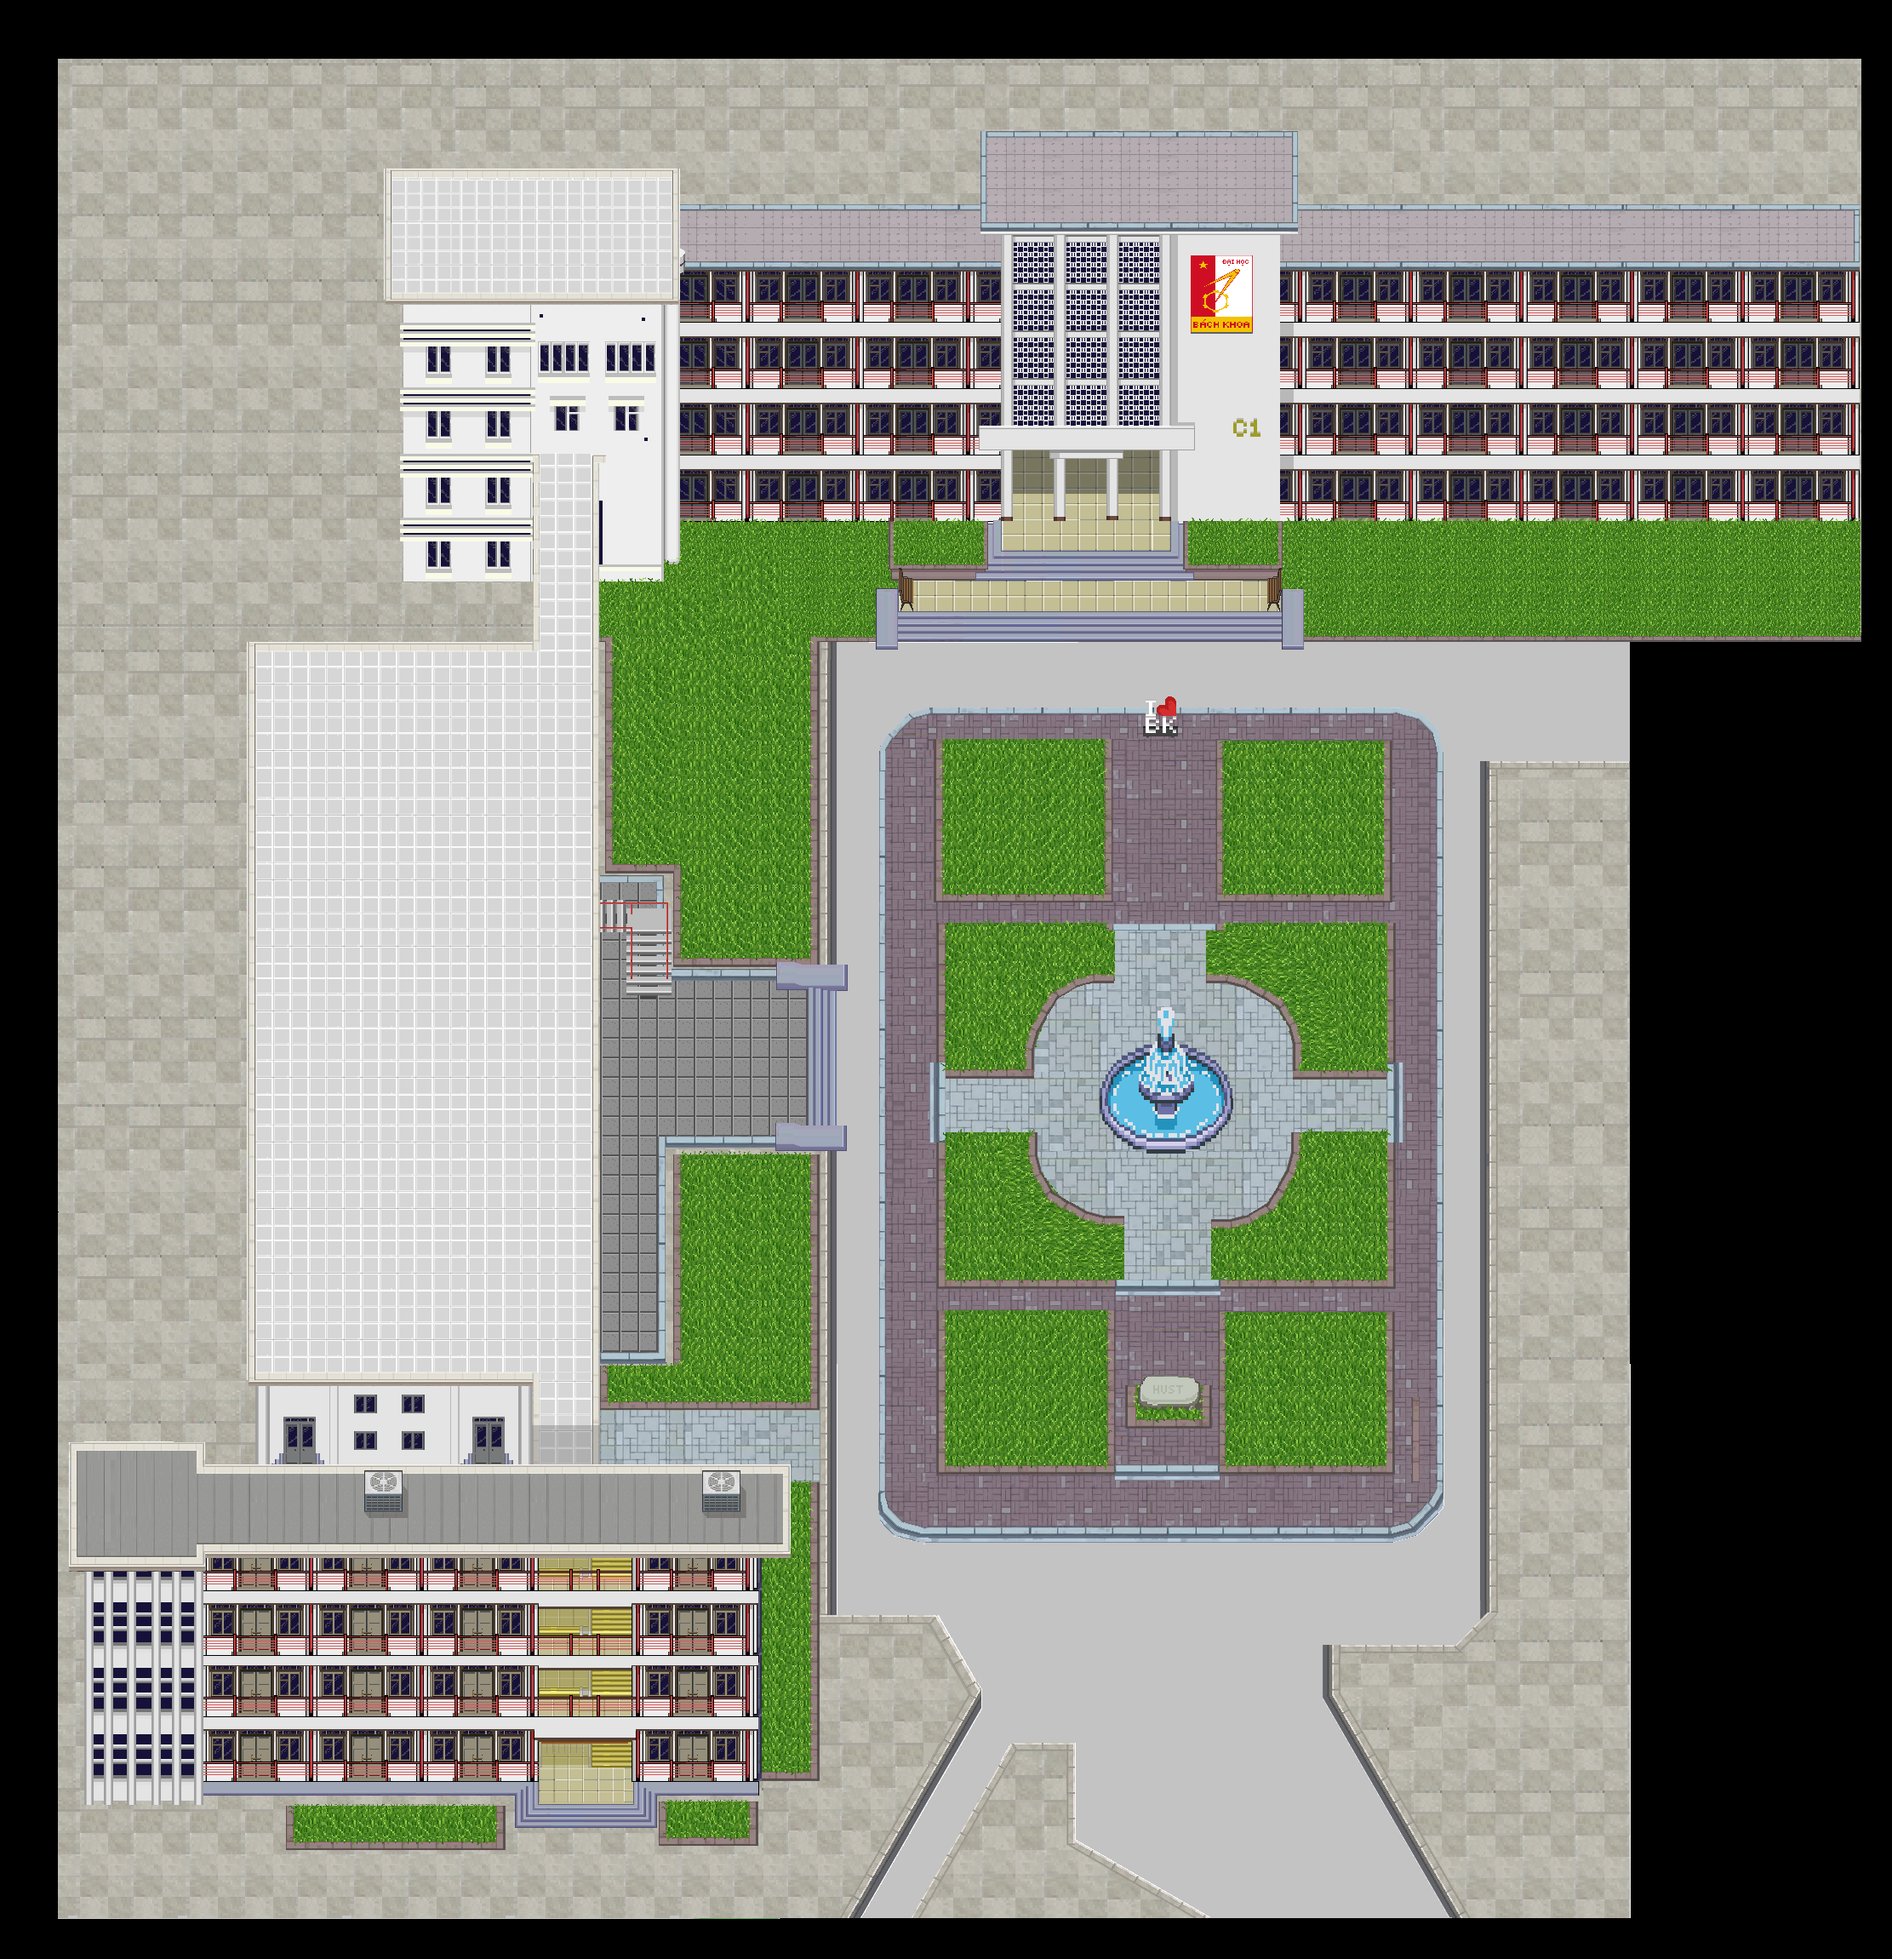
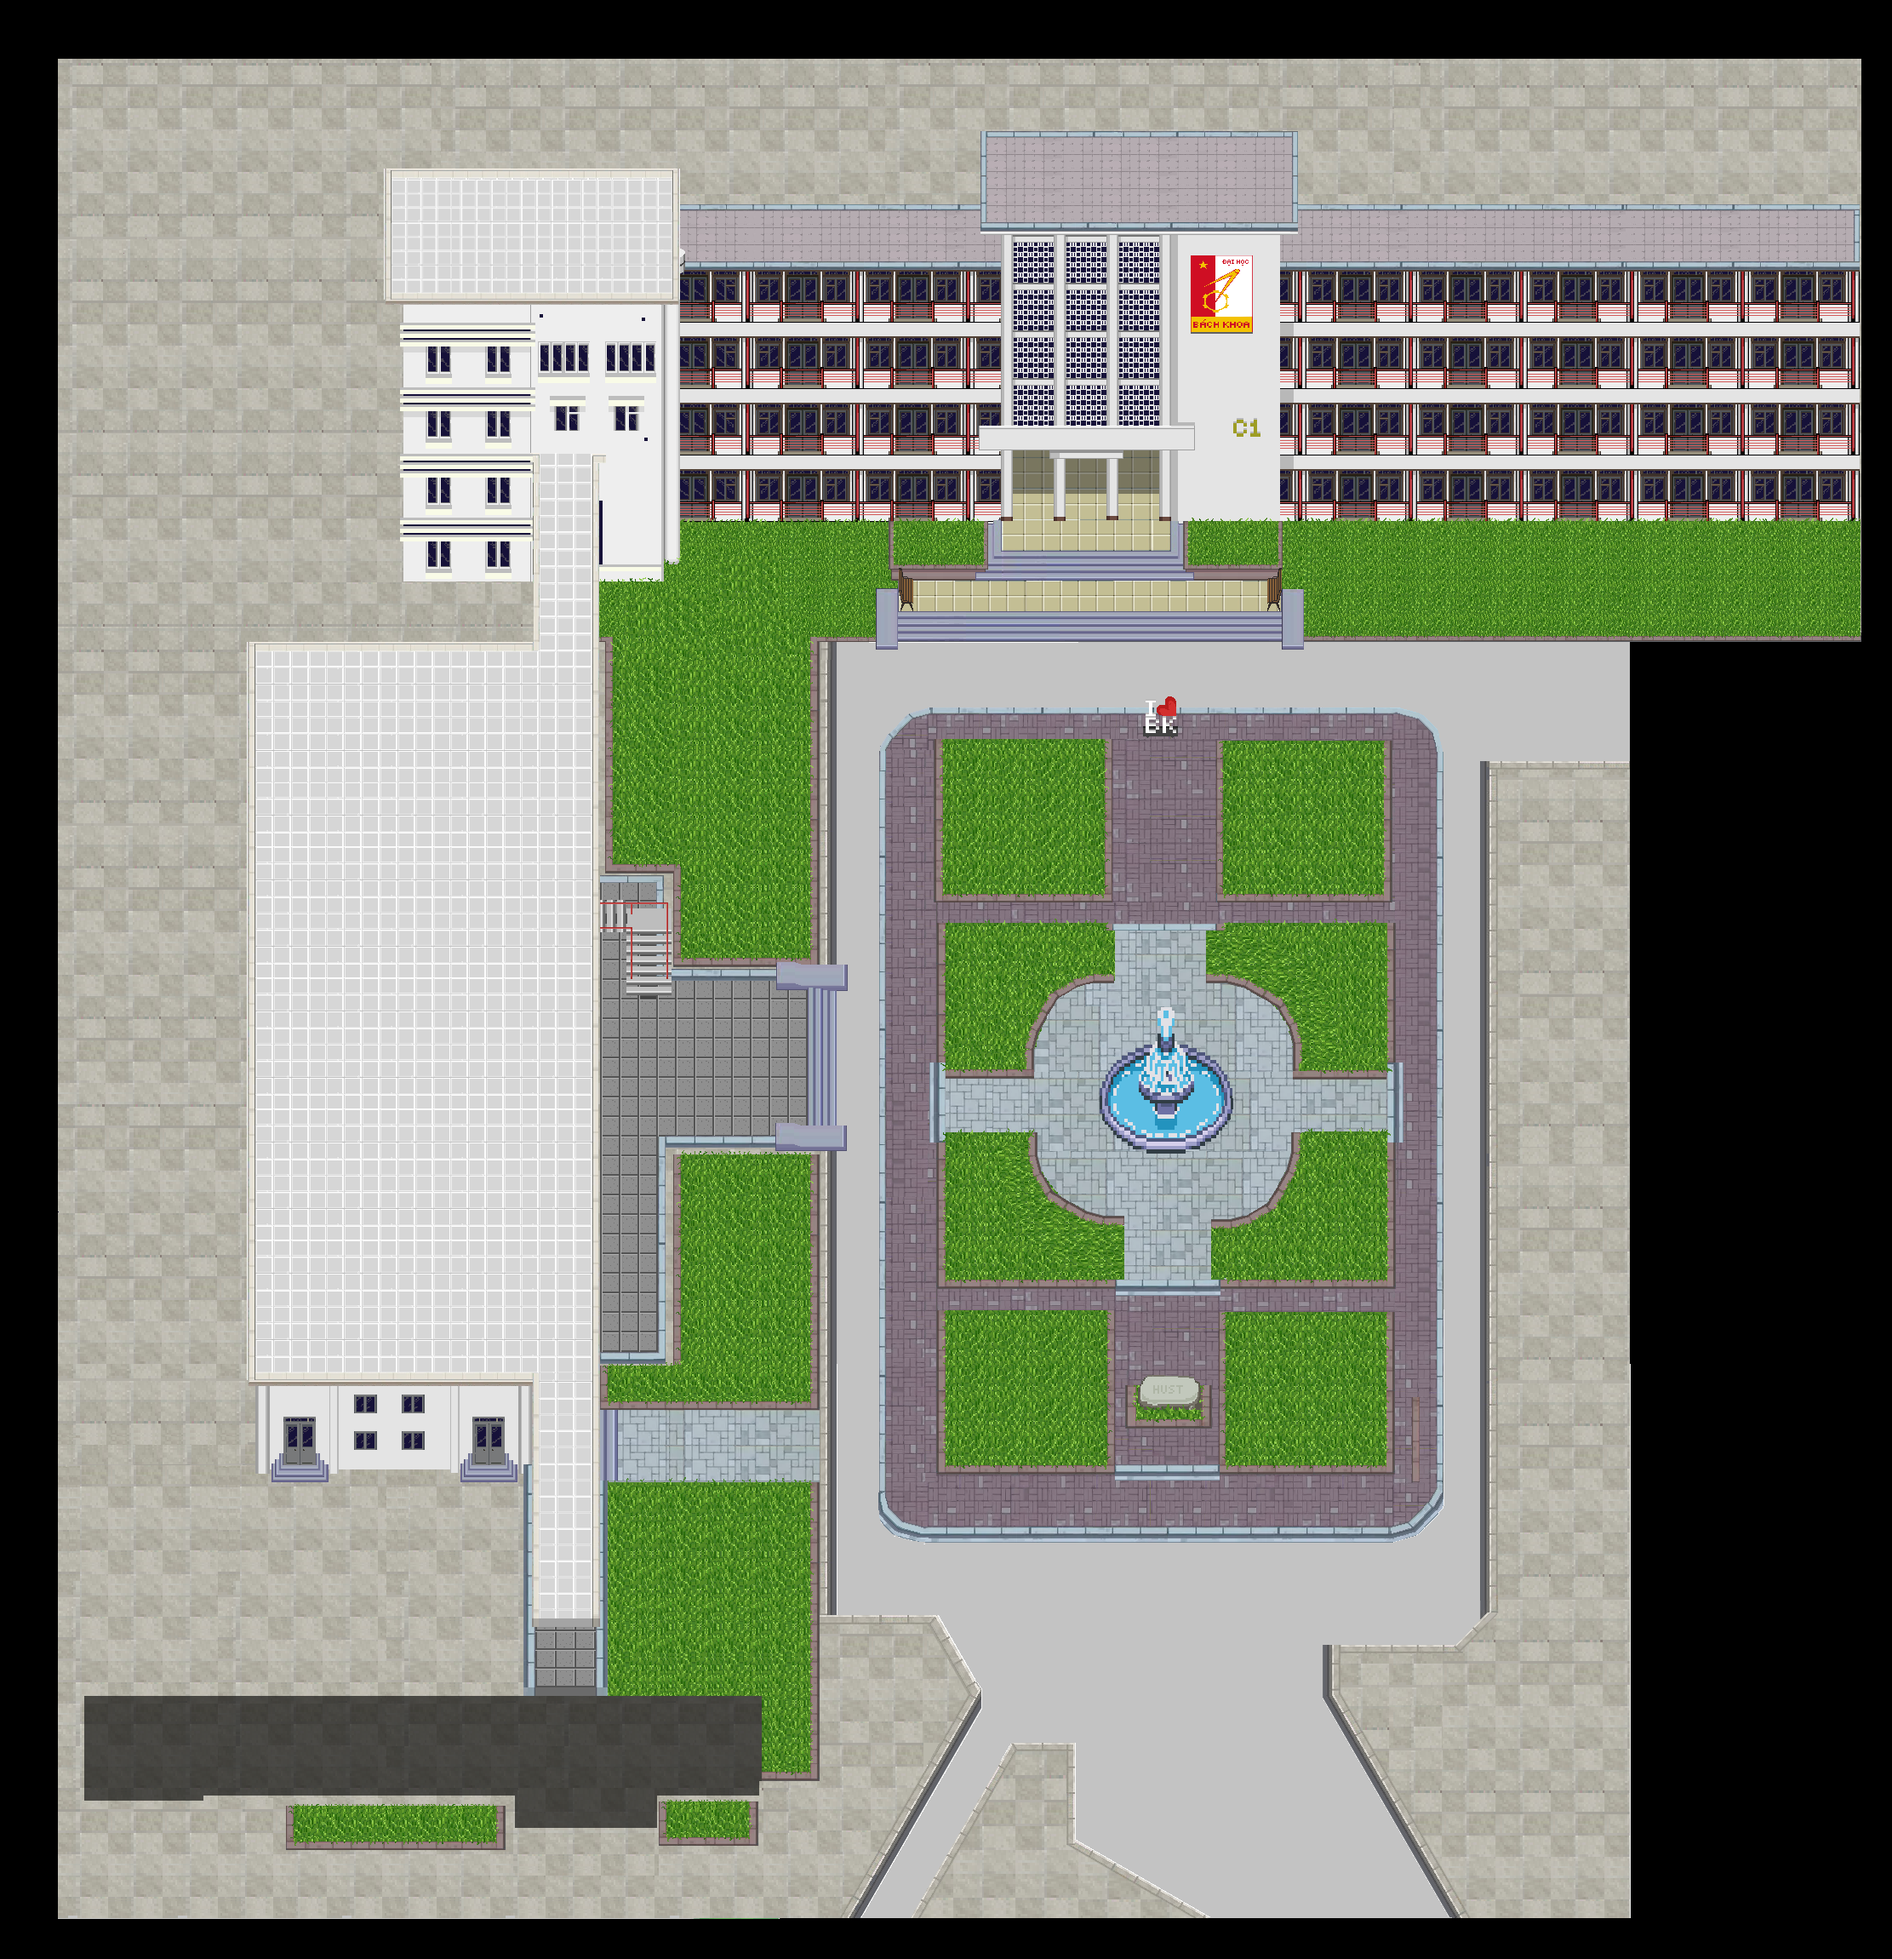
fix bugs

Changed region(s): [[0.031, 0.7097, 0.4345, 0.9565]]

diff --git a/src/area/Section_1.java b/src/area/Section_1.java
@@ -76,7 +76,7 @@ public class Section_1 extends Map {
         }
 
 
-        C9 = new Tile(new Rectangle(101, 1720, 793, 389), "C9", "Obstacle", null, null);
+        // C9 = new Tile(new Rectangle(101, 1720, 793, 389), "C9", "Obstacle", null, null);
         C2 = new Tile(new Rectangle(305, 754, 402, 965), "C2", "Obstacle", null, null);
         C1 = new Tile(new Rectangle(472, 238, 1716, 373), "C1", "Obstacle", null, null);
 
@@ -91,6 +91,10 @@ public class Section_1 extends Map {
 
         addTile(hall);
         addTile(hallway_entry);
+
+        addTile(new Tile(new Rectangle(615 , 1626 , 89 , 366), "C9_C2_link", "Obstacle", null, null));
+        addTile(new Tile(new Rectangle(616 , 1739 , 97 , 253), "C9_C2_link", "Obstacle", null, null));
+        addTile(new Tile(new Rectangle(705 , 1655 , 21 , 84), "C9_C2_link_stair_entry", "Teleport", null, null));
 
         map_exchange_effect = new Animation_player(gamePanel, "res/effect/Map_exchange/type1/frame ", 4, 0.8, new Rectangle((int)(GamePanel.screenWidth / 4), (int)(GamePanel.screenHeight / 2 - GamePanel.screenWidth / 4), (int)(GamePanel.screenWidth / 2), (int)(GamePanel.screenWidth / 2)));
 
@@ -112,9 +116,20 @@ public class Section_1 extends Map {
     // Phương thức vẽ map
     public void draw(Graphics2D g2) {
         gamePanel.tileManager.draw(g2, background);
+        boolean is_player_display = false;
         for(Object object : objectContainer){
+            if(is_player_display == false){
+                if(object.getTop() <= gamePanel.player.getHitArea().y + gamePanel.player.getHitArea().height){
+                    // gamePanel.player.draw(g2);
+                    is_player_display = true;
+                }
+            }
             object.operation(g2);
         }
+
+        if(is_player_display == false)
+            gamePanel.player.draw(g2);
+
         // for (int i = 0; i < numTileContainer; ++i)
         //     gamePanel.tileManager.draw(g2, tileContainer[i]);
     }

diff --git a/src/tile/Object.java b/src/tile/Object.java
@@ -59,13 +59,21 @@ public class Object {
     private void display(Graphics2D graphics2d){
         for(Tile tile : body){
             if(tile.isCollision == true){
-                graphics2d.setComposite(AlphaComposite.getInstance(AlphaComposite.SRC_OVER, 0.5f));
+                graphics2d.setComposite(AlphaComposite.getInstance(AlphaComposite.SRC_OVER, 1.0f));
                 break;
             }
         }
         map.gamePanel.tileManager.draw(graphics2d, image);
         graphics2d.setComposite(AlphaComposite.getInstance(AlphaComposite.SRC_OVER, 1.0f));
             
+    }
+
+    public int getTop(){
+        return foot.getLast().TopY;
+    }
+
+    public int getBot(){
+        return foot.getFirst().BottomY;
     }
 
     public void operation(Graphics2D graphics2d){

diff --git a/src/area/C2/C2_hallway.java b/src/area/C2/C2_hallway.java
@@ -86,7 +86,7 @@ public class C2_hallway extends Map {
         addTile(new Tile(new Rectangle( 768 , 191 , 191 , 84 ), "C2_Hall_entry", "Teleport", null, null));
         addTile(new Tile(new Rectangle( 93 , 238 , 107 , 24 ), "fence", "Obstacle", null, null));
         addTile(new Tile(new Rectangle( 73 , 173 , 21 , 99 ), "pillar", "Obstacle", null, null));
-        addTile(new Tile(new Rectangle(492 , 639 , 158 , 26), "C2_Hallway_exit", "Teleport", null, null));
+        addTile(new Tile(new Rectangle(491 , 605 , 159 , 34), "C2_Hallway_exit", "Teleport", null, null));
 
         addTile(new Tile(new Rectangle( 0 , 172 , 74 , 80 ), "map_barrier", "Obstacle", null, null));
         addTile(new Tile(new Rectangle( 0 , 411 , 67 , 37 ), "map_barrier", "Obstacle", null, null));
